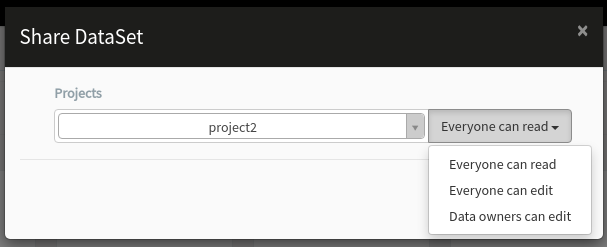
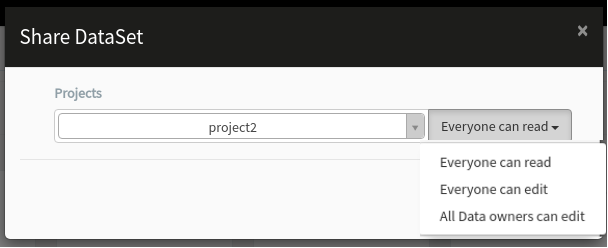
fix for 1999

Changed region(s): [[0.0, 0.0283, 1.0, 1.0], [0.089, 0.1134, 0.2372, 0.1984], [0.089, 0.3684, 0.1779, 0.3968]]

diff --git a/docs/user_guide/hopsworks/dataSetShare.rst b/docs/user_guide/hopsworks/dataSetShare.rst
@@ -49,7 +49,7 @@ When sharing a Data Set you can also choose share permissions. Available permiss
  
 - **Everyone can read**: gives read only access to all members of the project the Data Set is shared with.
 - **Everyone can edit**: gives read/write access to all members of the project the Data Set is shared with.
-- **Data owners can edit**: gives data owners write access and read only access to all other members of the project the Data Set is shared with.
+- **All Data owners can edit**: gives data owners write access and read only access to all other members of the project the Data Set is shared with.
  
 To complete the sharing process, a Data Owner in the target project has to click on the shared Data Set,
 and then click on ``Accept`` to complete the process, ``Reject`` to reject the shared Data Set or ``cancel`` for no
@@ -105,7 +105,7 @@ levels that give higher privileges to members that can access this Data Set. All
  
 - **Everyone can read**: gives read only access to all members of the project the Data Set is shared with.
 - **Everyone can edit**: gives read/write access to all members of the project the Data Set is shared with.
-- **Data owners can edit**: gives data owners write access and read only access to all other members of the project the Data Set is shared with.
+- **All Data owners can edit**: gives data owners write access and read only access to all other members of the project the Data Set is shared with.
  
 Changing the access level can be done with a right-click on the Data Set, permissions and click on one of the
 available access levels as shown in the figure below.
